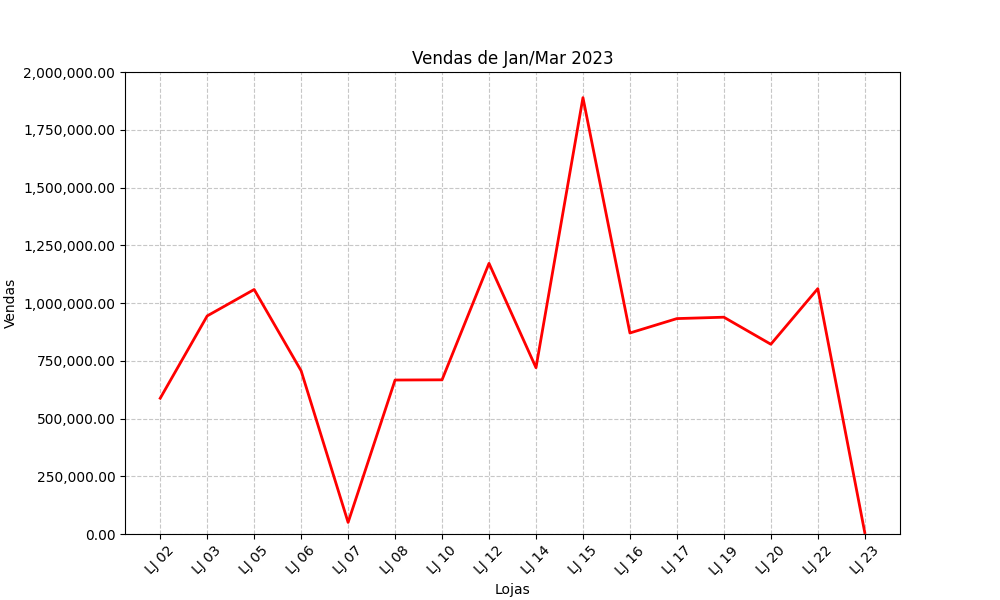
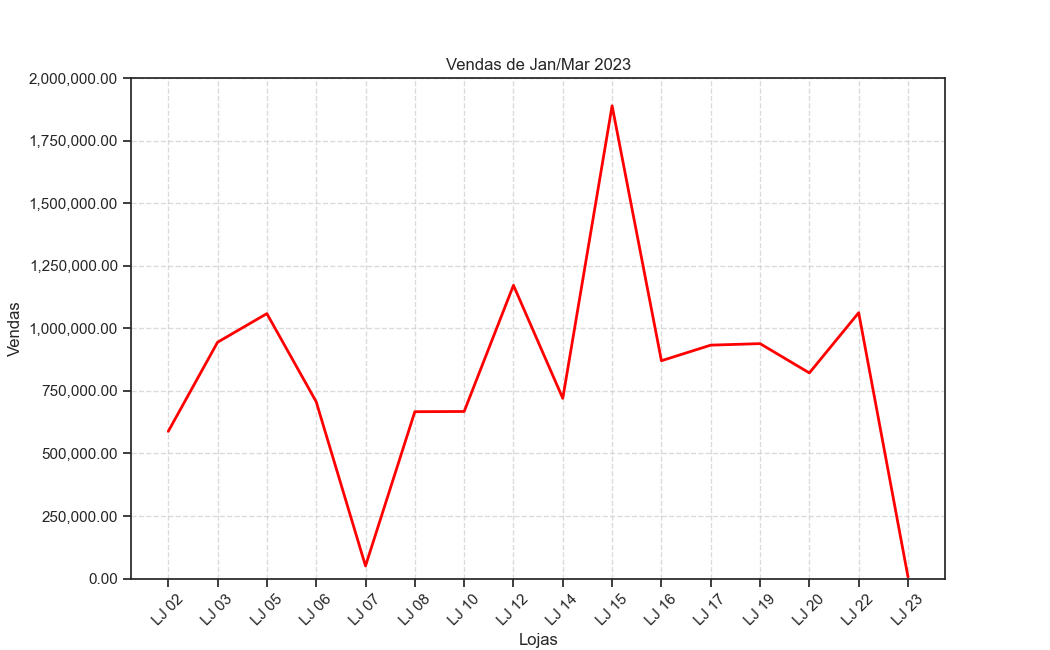
Ajustes e correções

diff --git a/grafico-colunas-vendas-mes.py b/grafico-colunas-vendas-mes.py
@@ -22,19 +22,19 @@ display(df_vendas)
 
 sns.set_theme(style="ticks")
 
-graf_total = sns.lineplot(data=df_vendas)
-graf_total.set(title="Total de Vendas", xlabel="Tempo", ylabel="Vendas")
+graf_total = sns.barplot(data=df_vendas, x=df_vendas.index, y="Total de Vendas", color="#FF4040")
+graf_total.set(title="Total de Vendas", xlabel="Lojas", ylabel="Vendas")
 
-graf_linhas = sns.lineplot(data=df_vendas, x="Lojas", y="Total de Vendas", color="#FF4040", linewidth=2)
+fig = plt.gcf()
 fig = plt.gcf()
 fig.set_size_inches(10.5, 6.5)
-graf_linhas.set(title="Vendas de Jan/Mar 2023", xlabel="Lojas", ylabel="Vendas")
-graf_linhas.set(ylim=(0, 2000000))
-graf_linhas.tick_params(axis='x', labelrotation=45)
-graf_linhas.grid(linestyle="--", alpha=0.7)
-graf_linhas.yaxis.set_major_formatter(mtick.FuncFormatter(lambda x, _: '{:,.2f}'.format(x)))
+graf_total.set(title="Vendas de Jan/Mar 2023", xlabel="Lojas", ylabel="Vendas")
+graf_total.set(ylim=(0, 2000000))
+graf_total.tick_params(axis='x', labelrotation=45)
+graf_total.grid(linestyle="--", alpha=0.7)
+graf_total.yaxis.set_major_formatter(mtick.FuncFormatter(lambda x, _: '{:,.2f}'.format(x)))
 
-fig = graf_linhas.get_figure()
-fig.savefig("grafico_vendas_mes.png")
+fig = graf_total.get_figure()
+fig.savefig("grafico_vendas_mes_colunas.png")
 
 plt.show()

diff --git a/grafico-linhas-vendas.py b/grafico-linhas-vendas.py
@@ -7,9 +7,11 @@ import matplotlib.ticker as mtick
 df_vendas=pd.read_excel('vendas.xlsx', "Vendas")
 display(df_vendas)
 
+sns.set_theme(style="ticks")
+
 graf_linhas = sns.lineplot(data=df_vendas, x="Lojas", y="Vendas", color="red", linewidth=2)
 fig = plt.gcf()
-fig.set_size_inches(10, 6)
+fig.set_size_inches(10.5, 6.5)
 graf_linhas.set(title="Vendas de Jan/Mar 2023", xlabel="Lojas", ylabel="Vendas")
 graf_linhas.set(ylim=(0, 2000000))
 graf_linhas.tick_params(axis='x', labelrotation=45)
